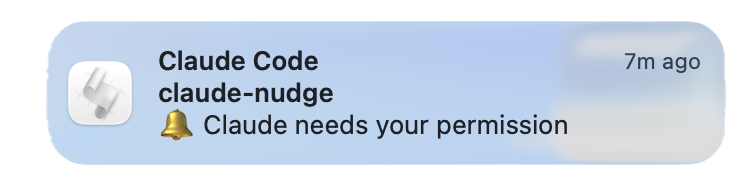
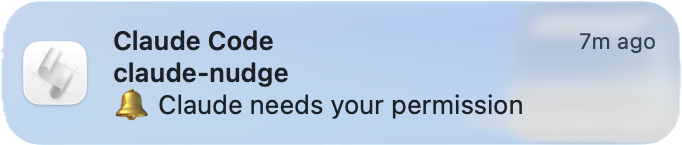
docs: restructure README and crop screenshots
- Value-first intro, badges, Why / How it works, FAQ, Troubleshooting
- Strengthen Privacy section formatting
- Trim transparent borders from both notification screenshots

diff --git a/README.md b/README.md
@@ -1,8 +1,23 @@
 # claude-nudge
 
-> macOS notifications for [Claude Code](https://claude.com/claude-code) — fires when Claude needs your input **and** when a task finishes, so you don't have to watch the terminal.
+[![npm version](https://img.shields.io/npm/v/claude-nudge.svg)](https://www.npmjs.com/package/claude-nudge)
+[![npm downloads](https://img.shields.io/npm/dm/claude-nudge.svg)](https://www.npmjs.com/package/claude-nudge)
+[![license: MIT](https://img.shields.io/npm/l/claude-nudge.svg)](./LICENSE)
+[![node](https://img.shields.io/node/v/claude-nudge.svg)](https://nodejs.org)
 
-**macOS only.** Two nudges are installed by default:
+> **Never miss a Claude Code permission request or finished task again.** `claude-nudge` adds native macOS desktop notifications to the [Claude Code](https://claude.com/claude-code) CLI using hooks — so you don't have to babysit the terminal.
+
+- 🔔 **Permission requests** pop a notification — approve without watching the terminal
+- ✅ **Completed tasks** pop a notification — know the instant Claude finishes
+- ⚡ **One command** to install — zero dependencies, zero telemetry, zero network calls
+
+```bash
+npx claude-nudge
+```
+
+**macOS only.** (Notifications are delivered via `osascript`.)
+
+## What it looks like
 
 **Permission prompt** — Sosumi chime, body is 🔔 + the permission message (e.g. "🔔 Allow Bash `rm -rf`?"). Fires on the `Notification.permission_prompt` hook.
 
@@ -14,13 +29,17 @@
 
 Both show `Claude Code` as the title and the current project directory as the subtitle.
 
----
+## Why?
+
+When Claude Code requests permission or finishes a task, the only signal is inside your terminal. If you're reviewing code in another window, reading docs, grabbing coffee, or waiting out a long-running task, it's easy to miss — so Claude sits idle waiting on you, or finishes without you noticing.
+
+`claude-nudge` surfaces those two moments in macOS Notification Center, so you can stay heads-down elsewhere and still react the moment Claude needs you.
 
 ## Install
 
 ```bash
-npx claude-nudge
-npx claude-nudge --test      # fire a sample notification + grant macOS permission
+npx claude-nudge            # install both hooks
+npx claude-nudge --test     # fire a sample notification + grant macOS permission
 ```
 
 That's it. The installer:
@@ -28,6 +47,22 @@ That's it. The installer:
 1. Adds a `Notification` hook (matcher `permission_prompt`) **and** a `Stop` hook to `~/.claude/settings.json`.
 2. Copies the runner to `~/.claude/claude-nudge/notify.js` (stable path, survives `npm` cache cleanup). The runner picks the right message + sound based on the hook event it receives.
 3. Backs up your prior `settings.json` to `~/.claude/.claude-nudge-backups/` (mode `0600`, 5 most recent kept).
+
+> **First run:** the first notification triggers a one-time macOS permission prompt for your terminal app. Run `npx claude-nudge --test` right after installing so it's granted up front (see [Troubleshooting](#troubleshooting)).
+
+## How it works
+
+```
+Claude Code event  (permission prompt  /  task complete)
+        │  hook fires
+        ▼
+~/.claude/claude-nudge/notify.js   (picks message + sound for the event)
+        │
+        ▼
+osascript  ──▶  macOS Notification Center
+```
+
+No daemon, no background process — the runner executes only when a hook fires, then exits.
 
 ## Update
 
@@ -140,11 +175,31 @@ Notes:
 - `CLAUDE_NUDGE_SOUND` is a single override applied to **both** events, so there's no sound name that restores the distinct per-event defaults (Sosumi for permission prompts, Glass for task-complete). To go back to those, **remove the key** — by hand-editing `settings.json` or via `--uninstall` (which removes it along with the hooks).
 - You can also set the variable by hand instead of using `--set-sound`; the runner reads it on every notification.
 
-## macOS permission prompt
+## Troubleshooting
 
-The first time a notification fires, macOS asks your terminal (iTerm, Terminal, VS Code, etc.) for Notification permission. Running `npx claude-nudge --test` immediately after install triggers this prompt up front, so the first *real* Claude notification isn't silently swallowed.
+**No notifications appearing?** Run the doctor — it checks platform, `settings.json`, the runner, and `osascript`:
 
-If you dismissed the prompt, re-enable via **System Settings → Notifications → [your terminal app]**.
+```bash
+npx claude-nudge --doctor
+```
+
+**Dismissed the macOS permission prompt?** The first notification asks your terminal (iTerm, Terminal, VS Code, etc.) for Notification permission. If you dismissed it, re-enable via **System Settings → Notifications → [your terminal app]**, then run `npx claude-nudge --test`.
+
+**Ran an update but still on the old version?** `npx` cache. Force a fresh fetch with `npx claude-nudge@latest`, then verify with `npx claude-nudge --doctor`.
+
+**Too many "Task complete" notifications?** The `Stop` hook fires every turn — mute just that one with `npx claude-nudge --disable-completion`.
+
+## FAQ
+
+**Does this send data anywhere?** No. Zero network calls, zero telemetry, zero runtime dependencies, zero npm lifecycle scripts. Everything runs locally on your Mac.
+
+**Does it work on Windows or Linux?** No — macOS only. Notifications are delivered through `osascript`, which is macOS-specific.
+
+**Why do notifications come from "Script Editor"?** A macOS limitation, not a bug — `osascript` notifications are always attributed to Script Editor. See [Known limitation](#known-limitation-notifications-attribute-to-script-editor) below. Don't click them.
+
+**Can I change the sound?** Yes — `npx claude-nudge --set-sound NAME` (or `none` to silence). See [Customizing the sound](#customizing-the-sound).
+
+**Can I turn off the task-complete notification?** Yes — `npx claude-nudge --disable-completion`. Permission prompts keep firing.
 
 ## Known limitation: notifications attribute to "Script Editor"
 
@@ -157,10 +212,10 @@ This is a macOS platform behavior, not a bug in claude-nudge. The only way to ch
 
 ## Privacy
 
-- All processing is local. **Zero network calls.**
-- **Zero runtime dependencies.**
-- **Zero telemetry.**
-- **Zero npm lifecycle scripts** (no `preinstall`/`postinstall`).
+- ✅ **Zero network calls** — all processing is local
+- ✅ **Zero telemetry**
+- ✅ **Zero runtime dependencies**
+- ✅ **Zero npm lifecycle scripts** (no `preinstall`/`postinstall`)
 
 The project directory name (the basename of `cwd`) appears as the notification subtitle. This is visible in macOS notification history and on lock screen. If you work in directories with names you'd rather not display (e.g., `~/Projects/private-project/`), adjust lock-screen visibility in System Settings or consider renaming the folder.
 
